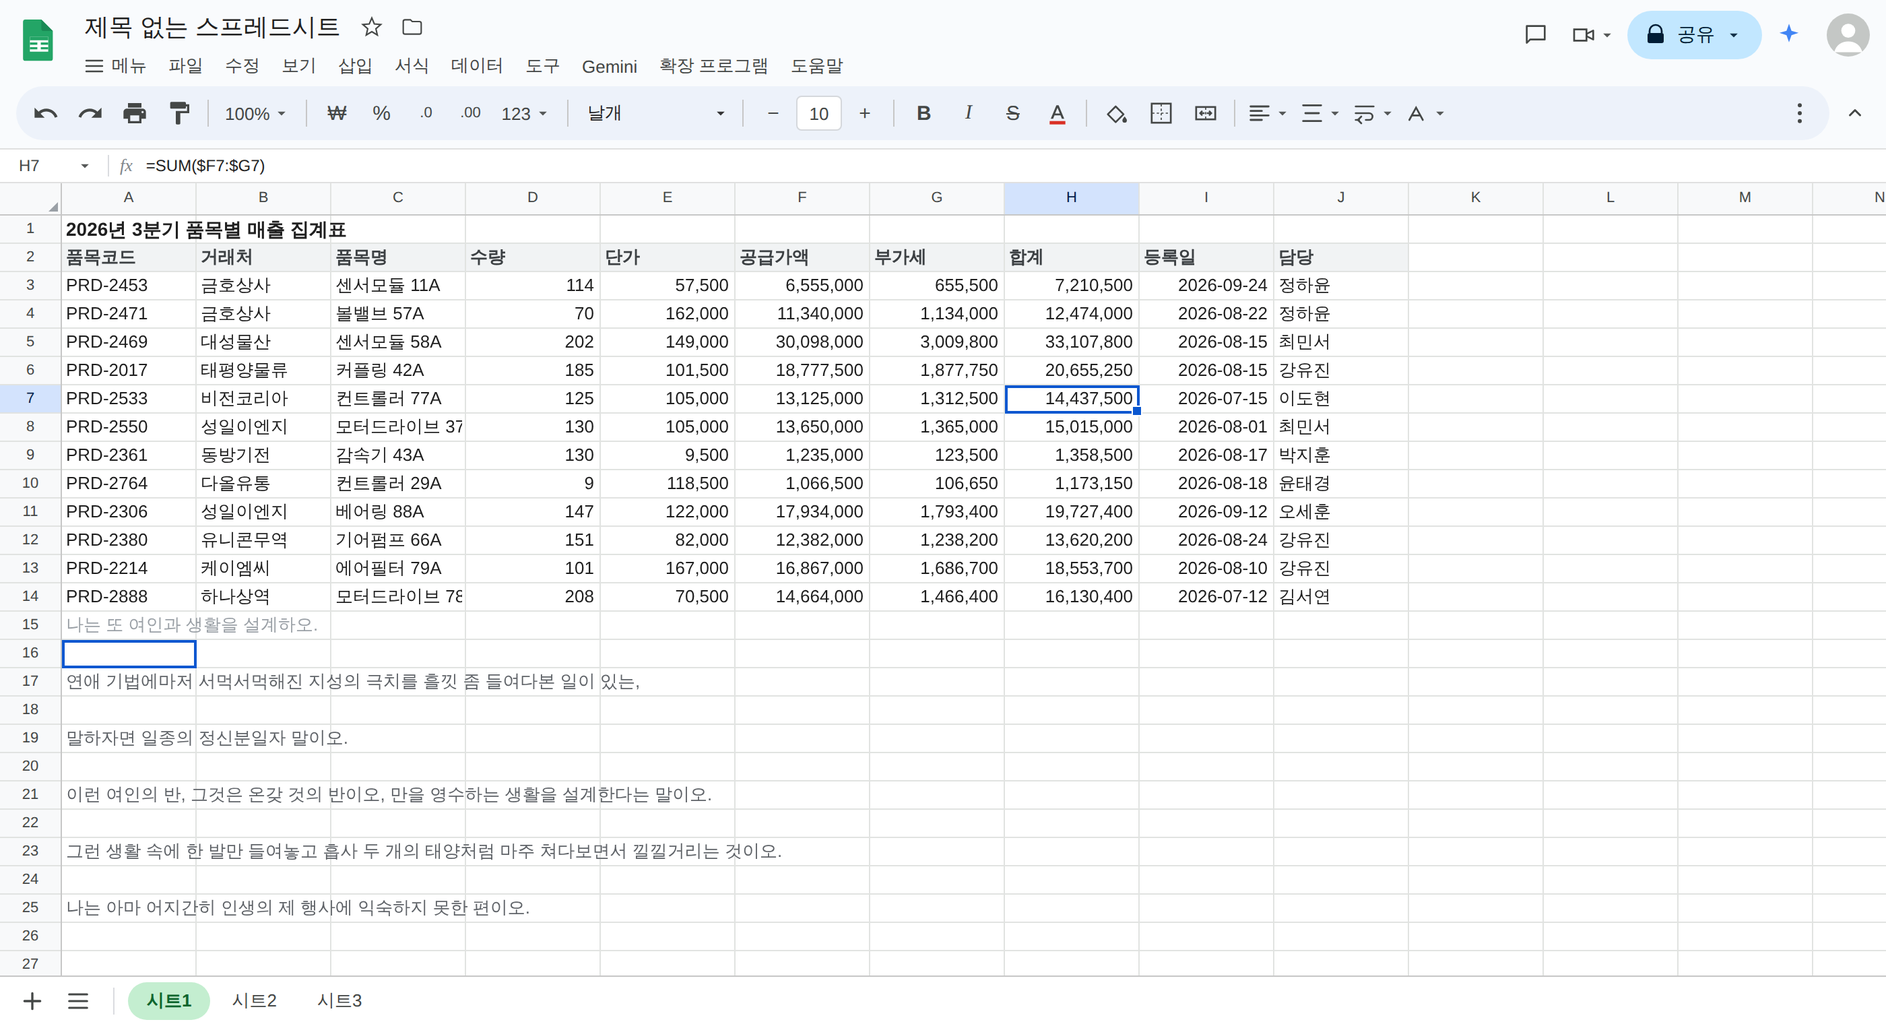
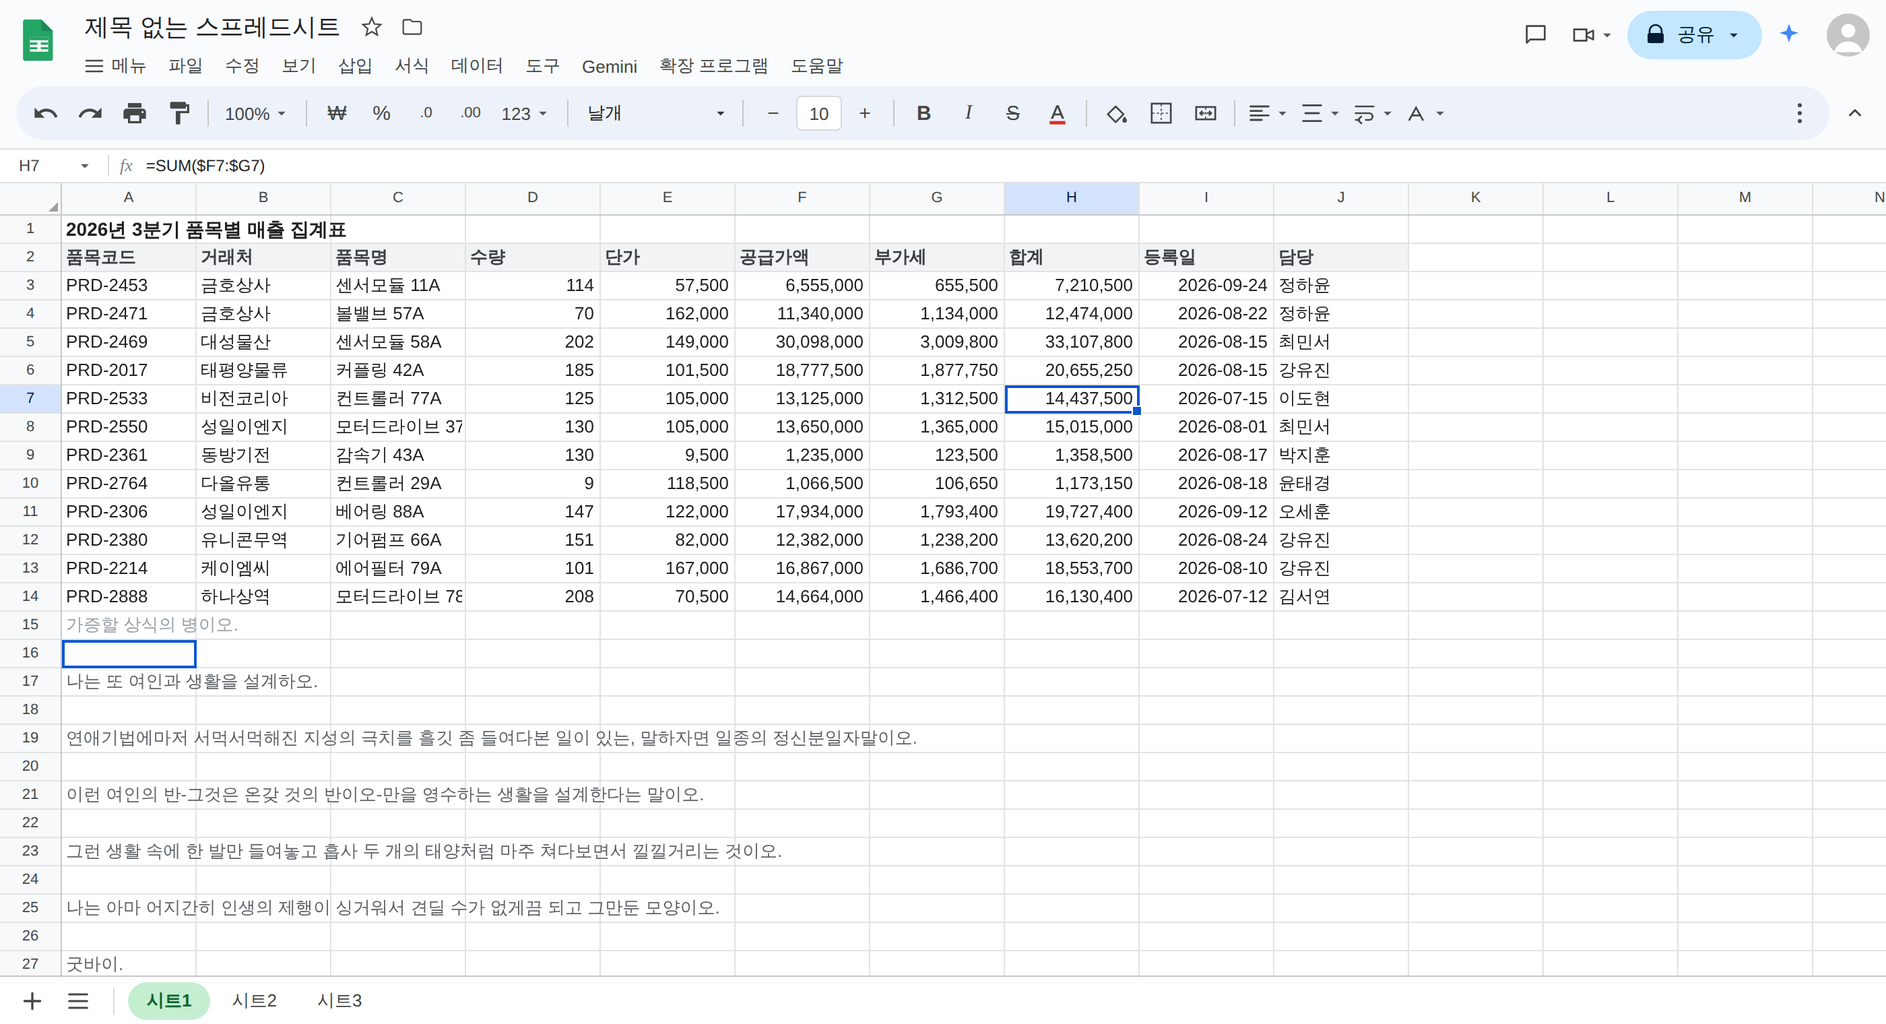
연습 글을 업로드 원문으로 교체
- 글 목록: 날개(이상) → 메밀꽃 필 무렵(이효석) → 별 헤는 밤(윤동주) → 애국가 순서
- 날개·메밀꽃은 도입부 발췌, 별 헤는 밤은 전문, 애국가는 4절 전체
- 한 문장이 한 줄이 되도록 다시 나눔 (문장이 두 줄로 잘리지 않게)
  시는 시행 자체가 한 줄이므로 원문의 행 나눔을 유지
- 본문의 한자를 덜어내 키보드로 칠 수 있는 글자만 남김
  (소학교(小學校) → 소학교, 화중지병(畵中之餠) → 화중지병)
- 따옴표·말줄임표도 키보드로 칠 수 있는 문자로 통일
- 애국가는 국가이므로 작사가 칸을 비우고, 결과창·글 목록에서도
  저자가 없으면 구분점을 붙이지 않도록 처리
- 문장이 길어 화면을 넘어가면 치는 위치를 따라 가로로 스크롤

Claude-Session: https://claude.ai/code/session_01PBS7upHdzMGazshUNhYMyz

diff --git a/js/texts.js b/js/texts.js
@@ -1,8 +1,9 @@
 /* ============================================================
    긴 글 목록
    - 제목 / 저자는 화면에만 표시하고 타자 대상에 넣지 않는다.
-   - lines 배열의 한 줄이 시트의 한 행(셀 하나)이 된다.
-   - 모두 저작권 보호기간이 끝난 작품.
+   - lines 배열의 한 줄이 시트의 한 행(셀 하나)이 되며, 한 문장이 한 줄이다.
+   - 한자는 타자로 치기 어려우므로 본문에서 덜어냈다.
+   - 따옴표와 말줄임표는 키보드로 바로 칠 수 있는 문자로 적었다.
    ============================================================ */
 var TEXTS = [
   {
@@ -10,55 +11,38 @@ var TEXTS = [
     title: '날개',
     author: '이상',
     lines: [
-      "'박제가 되어 버린 천재'를 아시오? 나는 유쾌하오.",
-      '이런 때 연애까지가 유쾌하오.',
-      '육신이 흐느적흐느적하도록 피로했을 때만 정신이 은화처럼 맑소.',
-      '니코틴이 내 횟배 앓는 뱃속으로 스미면 머릿속에 으레 백지가 준비되는 법이오.',
-      '그 위에다 나는 위트와 패러독스를 바둑 포석처럼 늘어놓소.',
-      '가공할 상식의 병이오.',
-      '나는 또 여인과 생활을 설계하오.',
-      '연애 기법에마저 서먹서먹해진 지성의 극치를 흘낏 좀 들여다본 일이 있는,',
-      '말하자면 일종의 정신분일자 말이오.',
-      '이런 여인의 반, 그것은 온갖 것의 반이오, 만을 영수하는 생활을 설계한다는 말이오.',
-      '그런 생활 속에 한 발만 들여놓고 흡사 두 개의 태양처럼 마주 쳐다보면서 낄낄거리는 것이오.',
-      '나는 아마 어지간히 인생의 제 행사에 익숙하지 못한 편이오.'
-    ]
-  },
-  {
-    id: 'unsu',
-    title: '운수 좋은 날',
-    author: '현진건',
-    lines: [
-      '새침하게 흐린 품이 눈이 올 듯하더니 눈은 아니 오고 얼다가 만 비가 추적추적 내리었다.',
-      '이 날이야말로 동소문 안에서 인력거꾼 노릇을 하는 김 첨지에게는',
-      '오래간만에도 닥친 운수 좋은 날이었다.',
-      '문안에 들어간답시는 앞집 마나님을 전찻길까지 모셔다 드린 것을 비롯으로',
-      '행여나 손님이 있을까 하고 정류장에서 어정어정하며',
-      '내리는 사람 하나하나에게 거의 비는 듯한 눈길을 보내고 있다가',
-      '마침내 교원인 듯한 양복쟁이를 동광학교까지 태워다 주기로 되었다.',
-      '첫 번에 삼십 전, 둘째 번에 오십 전.',
-      '아침 댓바람에 그리 흉치 않은 일이었다.',
-      '그야말로 재수가 옴 붙어서 근 열흘 동안 돈 구경도 못 한 김 첨지는',
-      '십 전짜리 백동화 서 푼, 또는 다섯 푼이 찰깍하고 손바닥에 떨어질 때',
-      '거의 눈물을 흘릴 만큼 기뻤었다.'
-    ]
-  },
-  {
-    id: 'bombom',
-    title: '봄봄',
-    author: '김유정',
-    lines: [
-      '"장인님! 인제 저........."',
-      '내가 이렇게 뒤통수를 긁고, 나이가 찼으니 성례를 시켜 줘야 하지 않겠느냐고 하면',
-      '그 대답이 늘 "이 자식아! 성례구 뭐구 미처 자라야지!" 하고 만다.',
-      '이렇게 딱 잡아떼는 데는 더 할 말이 없다.',
-      '허지만 안 낼 수도 없는 것이, 밤낮 일만 해 주고 새경도 못 받는 신세다.',
-      '내가 여기서 이렇게 굴러먹는 것도 오로지 점순이 때문이다.',
-      '점순이가 자라는 대로 성례를 시켜 준다고 데릴사위로 들어온 지가',
-      '벌써 삼 년하고 일곱 달이 되었다.',
-      '그런데도 점순이는 여태 자라지를 않는다.',
-      '아무리 잡아당겨도 늘지 않는 것이 사람의 키인가 보다.',
-      '이래서야 어느 하가에 데릴사위가 장가를 들 수 있단 말인가.'
+      "'박제가 되어 버린 천재'를 아시오?",
+      "나는 유쾌하오.",
+      "이런 때 연애까지가 유쾌하오.",
+      "육신이 흐느적흐느적하도록 피로했을 때만 정신이 은화처럼 맑소.",
+      "니코틴이 내 횟배 앓는 뱃속으로 스미면 머릿속에 으레 백지가 준비되는 법이오.",
+      "그 위에다 나는 위트와 파라독스를 바둑 포석처럼 늘어놓소.",
+      "가증할 상식의 병이오.",
+      "나는 또 여인과 생활을 설계하오.",
+      "연애기법에마저 서먹서먹해진 지성의 극치를 흘깃 좀 들여다본 일이 있는, 말하자면 일종의 정신분일자말이오.",
+      "이런 여인의 반-그것은 온갖 것의 반이오-만을 영수하는 생활을 설계한다는 말이오.",
+      "그런 생활 속에 한 발만 들여놓고 흡사 두 개의 태양처럼 마주 쳐다보면서 낄낄거리는 것이오.",
+      "나는 아마 어지간히 인생의 제행이 싱거워서 견딜 수가 없게끔 되고 그만둔 모양이오.",
+      "굿바이.",
+      "굿바이.",
+      "그대는 이따금 그대가 제일 싫어하는 음식을 탐식하는 아이로니를 실천해 보는 것도 좋을 것 같소.",
+      "위트와 파라독스와......",
+      "그대 자신을 위조하는 것도 할 만한 일이오.",
+      "그대의 작품은 한번도 본 일이 없는 기성품에 의하여 차라리 경편하고 고매하리다.",
+      "19세기는 될 수 있거든 봉쇄하여 버리오.",
+      "도스토예프스키 정신이란 자칫하면 낭비일 것 같소.",
+      "위고를 불란서의 빵 한 조각이라고는 누가 그랬는지 지언인 듯싶소.",
+      "그러나 인생 혹은 그 모형에 있어서 '디테일' 때문에 속는다거나 해서야 되겠소?",
+      "화를 보지 마오.",
+      "부디 그대께 고하는 것이니......",
+      "'테이프가 끊어지면 피가 나오. 상채기도 머지 않아 완치될 줄 믿소. 굿바이.'",
+      "감정은 어떤 '포우즈'.",
+      "(그 '포우즈'의 원소만을 지적하는 것이 아닌지 나도 모르겠소.)",
+      "그 '포우즈'가 부동자세에까지 고도화할 때 감정은 딱 공급을 정지합네다.",
+      "나는 내 비범한 발육을 회고하여 세상을 보는 안목을 규정하였소.",
+      "여왕봉과 미망인-세상의 하고 많은 여인이 본질적으로 이미 미망인이 아닌 이가 있으리까?",
+      "아니, 여인의 전부가 그 일상에 있어서 개개미망인이라는 내 논리가 뜻밖에도 여성에 대한 모험이 되오?",
+      "굿바이."
     ]
   },
   {
@@ -66,35 +50,94 @@ var TEXTS = [
     title: '메밀꽃 필 무렵',
     author: '이효석',
     lines: [
-      '여름 장이란 애시당초에 글러서, 해는 아직 중천에 있건만 장판은 벌써 쓸쓸하고',
-      '더운 햇발이 벌여 놓은 전 휘장 밑으로 등줄기를 훅훅 볶는다.',
-      '마을 사람들은 거지반 돌아간 뒤요,',
-      '팔리지 못한 나뭇군패가 길거리에 궁싯거리고들 있으나',
-      '석유병이나 받고 고깃마리나 사면 족할 이 축들을 바라고',
-      '언제까지든지 버티고 있을 법은 없다.',
-      '허 생원은 조 선달에게 낯을 붉히며 말을 건넸다.',
-      '"그만 걷을까?"',
-      '"잘 생각했네. 봉평 장에서 한 번이나 흐뭇하게 사 본 일 있었을까."',
-      '드팀전 장돌뱅이는 조금 팔았다고 자랑을 하며 궁싯거렸다.',
-      '이지러는 졌으나 보름을 갓 지난 달은 부드러운 빛을 흐뭇이 흘리고 있다.'
+      "여름 장이란 애당초에 글러서, 해는 아직 중천에 있건만 장판은 벌써 쓸쓸하고 더운 햇발이 벌여 놓은 전 휘장 밑으로 등줄기를 훅훅 볶는다.",
+      "마을 사람들은 거지반 돌아간 뒤요, 팔리지 못한 나무꾼 패가 길거리에 궁싯거리고들 있으나, 석유병이나 받고 고깃마리나 사면 족할 이 축들을 바라고 언제까지든지 버티고 있을 법은 없다.",
+      "춥춥스럽게 날아드는 파리 떼도 장난꾼 각다귀들도 귀찮다.",
+      "얼금뱅이요 왼손잡이인 드팀전의 허 생원은 기어코 동업의 조 선달을 나꾸어 보았다.",
+      "\"그만 거둘까?\"",
+      "\"잘 생각했네. 봉평장에서 한 번이나 흐붓하게 사 본 일 있었을까. 내일 대화장에서나 한몫 벌어야겠네.\"",
+      "\"오늘 밤은 밤을 새서 걸어야 될걸?\"",
+      "\"달이 뜨렷다?\"",
+      "절렁절렁 소리를 내며 조 선달이 그 날 산 돈을 따지는 것을 보고 허 생원은 말뚝에서 넓은 휘장을 걷고 벌여 놓았던 물건을 거두기 시작하였다.",
+      "무명 필과 주단바리가 두 고리짝에 꽉 찼다.",
+      "멍석 위에는 천 조각이 어수선하게 남았다.",
+      "다른 축들도 벌써 거진 전들을 걷고 있었다.",
+      "약빠르게 떠나는 패도 있었다.",
+      "어물 장수도, 땜장이도, 엿 장수도, 생강 장수도 꼴들이 보이지 않았다.",
+      "내일은 진부와 대화에 장이 선다.",
+      "축들은 그 어느 쪽으로든지 밤을 새워 육칠십 리 밤길을 타박거리지 않으면 안 된다.",
+      "장판은 잔치 뒤 마당같이 어수선하게 벌어지고, 술집에서는 싸움이 터져 있었다.",
+      "주정꾼 욕지거리에 섞여 계집의 앙칼진 목소리가 찢어졌다.",
+      "장날 저녁은 정해 놓고 계집의 고함소리로 시작되는 것이다.",
+      "\"생원, 시침을 떼두 다 아네...... 충줏집 말이야.\"",
+      "계집 목소리로 문득 생각난 듯이 조 선달은 비죽이 웃는다.",
+      "\"화중지병이지 연소패들을 적수로 하구야 대거리가 돼야 말이지.\"",
+      "\"그렇지두 않을걸. 축들이 사족을 못 쓰는 것두 사실은 사실이나, 아무리 그렇다군 해두 왜 그 동이 말일세. 감쪽같이 충줏집을 후린 눈치거든.\"",
+      "\"무어 그 애송이가? 물건 가지고 낚었나 부지. 착실한 녀석인 줄 알았더니.\"",
+      "\"그 길만은 알 수 있나...... 궁리 말구 가 보세나그려. 내 한턱 씀세.\"",
+      "그다지 마음이 당기지 않는 것을 쫓아갔다.",
+      "허 생원은 계집과는 연분이 멀었다.",
+      "얼금뱅이 상판을 쳐들고 대어 설 숫기도 없었으나, 계집 편에서 정을 보낸 적도 없었고, 쓸쓸하고 뒤틀린 반생이었다.",
+      "충줏집을 생각만 하여도 철없이 얼굴이 붉어지고 발밑이 떨리고 그 자리에 소스라쳐 버린다."
     ]
   },
   {
+    /* 시는 시행 자체가 한 줄이므로 원문의 행 나눔을 그대로 둔다. */
     id: 'byeol',
     title: '별 헤는 밤',
     author: '윤동주',
     lines: [
-      '계절이 지나가는 하늘에는 가을로 가득 차 있습니다.',
-      '나는 아무 걱정도 없이 가을 속의 별들을 다 헤일 듯합니다.',
-      '가슴속에 하나 둘 새겨지는 별을 이제 다 못 헤는 것은',
-      '쉬이 아침이 오는 까닭이요, 내일 밤이 남은 까닭이요,',
-      '아직 나의 청춘이 다하지 않은 까닭입니다.',
-      '별 하나에 추억과 별 하나에 사랑과',
-      '별 하나에 쓸쓸함과 별 하나에 동경과',
-      '별 하나에 시와 별 하나에 어머니, 어머니',
-      '어머님, 나는 별 하나에 아름다운 말 한마디씩 불러 봅니다.',
-      '이네들은 너무나 멀리 있습니다.',
-      '별이 아슬히 멀듯이.'
+      "계절이 지나가는 하늘에는",
+      "가을로 가득차 있습니다.",
+      "나는 아무 걱정도 없이",
+      "가을 속의 별들을 다 헤일 듯합니다.",
+      "가슴 속에 하나 둘 새겨지는 별을",
+      "이제 다 못 헤는 것은",
+      "쉬이 아침이 오는 까닭이요,",
+      "내일 밤이 남은 까닭이요,",
+      "아직 나의 청춘이 다하지 않은 까닭입니다.",
+      "별 하나에 추억과",
+      "별 하나에 사랑과",
+      "별 하나에 쓸쓸함과",
+      "별 하나에 동경과",
+      "별 하나에 시와",
+      "별 하나에 어머니, 어머니.",
+      "어머님, 나는 별 하나에 아름다운 말 한마디씩 불러 봅니다.",
+      "소학교 때 책상을 같이 했던 아이들의 이름과 패, 경, 옥 이런 이국 소녀들의 이름과, 벌써 애기 어머니 된 계집애들의 이름과, 가난한 이웃사람들의 이름과, 비둘기 강아지, 토끼, 노새, 노루, 프란시스 잼, 라이너 마리아 릴케, 이런 시인들의 이름을 불러 봅니다.",
+      "이네들은 너무나 멀리 있습니다.",
+      "별이 아스라이 멀 듯이",
+      "어머님,",
+      "그리고 당신은 멀리 북간도에 계십니다.",
+      "나는 무엇인지 그리워",
+      "이 많은 별빛이 내린 언덕 위에",
+      "내 이름자를 써 보고",
+      "흙으로 덮어 버리었습니다.",
+      "따는 밤을 새워 우는 벌레는",
+      "부끄러운 이름을 슬퍼하는 까닭입니다.",
+      "그러나 겨울이 지나고 나의 별에도 봄이 오면",
+      "무덤 위에 파란 잔디가 피어나듯이",
+      "내 이름자 묻힌 언덕 위에도",
+      "자랑처럼 풀이 무성할 거외다."
+    ]
+  },
+  {
+    /* 국가이므로 작사가는 비워 둔다. */
+    id: 'aegukga',
+    title: '애국가',
+    author: '',
+    lines: [
+      "동해물과 백두산이 마르고 닳도록",
+      "하느님이 보우하사 우리나라 만세",
+      "무궁화 삼천리 화려강산 대한 사람 대한으로 길이 보전하세",
+      "남산 위에 저 소나무 철갑을 두른 듯",
+      "바람 서리 불변함은 우리 기상일세",
+      "무궁화 삼천리 화려강산 대한 사람 대한으로 길이 보전하세",
+      "가을 하늘 공활한데 높고 구름 없이",
+      "밝은 달은 우리 가슴 일편단심일세",
+      "무궁화 삼천리 화려강산 대한 사람 대한으로 길이 보전하세",
+      "이 기상과 이 맘으로 충성을 다하여",
+      "괴로우나 즐거우나 나라 사랑하세",
+      "무궁화 삼천리 화려강산 대한 사람 대한으로 길이 보전하세"
     ]
   }
 ];

diff --git a/js/typing.js b/js/typing.js
@@ -140,6 +140,7 @@ var Typing = (function () {
 
     sheet.select(ir, 0);
     sheet.revealRow(targetRow(i), 4);
+    sheet.scroll.scrollLeft = 0;
     focusInput();
 
     S.lineStartT = (S.mode === 'attack') ? playTime() : null;
@@ -200,6 +201,14 @@ var Typing = (function () {
       var c2 = bad ? 'ch-c bad' : 'ch-c';
       if (s.className !== c2) s.className = c2;
     }
+    followCaret();
+  }
+
+  /* 입력 중인 지점이 항상 보이도록 가로 스크롤을 맞춘다. */
+  function followCaret() {
+    var last = S.typedSpans[S.typedSpans.length - 1];
+    var x = last ? last.offsetLeft + last.offsetWidth : 0;
+    sheet.revealX(x);
   }
 
   function onKeyDown(e) {
@@ -520,9 +529,8 @@ var Typing = (function () {
     var head = r.attack
       ? '타임어택 결과 · ' + r.level + '단계'
       : '타자 연습 결과';
-    var desc = r.attack
-      ? (r.reason === 'stopped' ? '중단한 지점까지의 기록입니다.' : (S.text.title + ' · ' + S.text.author))
-      : (S.text.title + ' · ' + S.text.author);
+    var name = S.text.title + (S.text.author ? ' · ' + S.text.author : '');
+    var desc = (r.attack && r.reason === 'stopped') ? '중단한 지점까지의 기록입니다.' : name;
 
     var m = Chrome.buildModal(head, desc);
     var grid = U.el('div', 'result');

diff --git a/js/app.js b/js/app.js
@@ -60,7 +60,7 @@ var App = (function () {
     U.save('selected', id);
     U.$('#textPickerLabel').textContent = text ? text.title : '기본값';
     U.$('#textPickerBtn').title = text
-      ? ('연습할 글: ' + text.title + ' · ' + text.author)
+      ? ('연습할 글: ' + text.title + (text.author ? ' · ' + text.author : ''))
       : '연습할 글 선택';
     Typing.setText(text);
   }
@@ -100,7 +100,8 @@ var App = (function () {
     }
 
     TEXTS.forEach(function (t) {
-      dd.appendChild(item(t.id, t.title, t.author + ' · ' + t.lines.length + '줄'));
+      dd.appendChild(item(t.id, t.title,
+        (t.author ? t.author + ' · ' : '') + t.lines.length + '줄'));
     });
 
     dd.appendChild(U.el('div', 'dropdown__sep'));

diff --git a/js/grid.js b/js/grid.js
@@ -219,6 +219,14 @@ Sheet.prototype.select = function (r, c, silent) {
   if (!silent) this.onSelect(r, c, this.getCell(r, c));
 };
 
+/* 긴 문장을 칠 때 커서 위치가 화면 밖으로 나가지 않게 가로로 따라간다. */
+Sheet.prototype.revealX = function (x, pad) {
+  pad = pad == null ? 140 : pad;
+  var sc = this.scroll, view = sc.clientWidth;
+  if (x > sc.scrollLeft + view - pad) sc.scrollLeft = x - view + pad;
+  else if (x < sc.scrollLeft + pad) sc.scrollLeft = Math.max(0, x - pad);
+};
+
 Sheet.prototype.revealRow = function (r, pad) {
   pad = pad == null ? 3 : pad;
   var top = r * ROW_H;

diff --git a/README.md b/README.md
@@ -31,15 +31,16 @@
 글줄과 입력칸이 한 행씩 번갈아 놓입니다. 제목과 저자는 화면에만 표시되고 타자 대상이 아닙니다.
 
 ```
-1행   날개                      ← 제목 (연습 대상 아님)
-2행   이상                      ← 저자 (연습 대상 아님)
-3행   '박제가 되어 버린 천재'를 아시오? …   ← 글줄
-4행   [           입력칸           ]
-5행   육신이 흐느적흐느적하도록 …            ← 글줄
-6행   [           입력칸           ]
+1행   날개                          ← 제목 (연습 대상 아님)
+2행   이상                          ← 저자 (연습 대상 아님)
+3행   '박제가 되어 버린 천재'를 아시오?   ← 글줄 (한 문장)
+4행   [             입력칸             ]
+5행   나는 유쾌하오.                   ← 글줄 (한 문장)
+6행   [             입력칸             ]
 ```
 
 - 글자를 칠 때마다 글줄의 글자 색이 바뀝니다. (맞으면 검정, 틀리면 빨강)
+- 문장이 길어 화면을 넘어가면 치는 위치를 따라 가로로 움직입니다.
 - `Enter` : 다음 줄의 입력칸으로 이동
 - `Space` : **줄을 끝까지 입력한 상태**라면 스페이스로도 다음 줄로 이동
 - 마지막 줄까지 마치면 결과 창이 열립니다. `Enter` 로 닫습니다.
@@ -82,13 +83,23 @@
 툴바에서 원래 글꼴을 지정하던 자리(`기본값`)가 **글 선택 도구**입니다.
 내장된 글과 시트2에 넣은 커스텀 글 중에서 고를 수 있습니다.
 
-내장된 글 (저작권 보호기간이 끝난 작품)
+내장된 글
 
-- 날개 — 이상
-- 운수 좋은 날 — 현진건
-- 봄봄 — 김유정
-- 메밀꽃 필 무렵 — 이효석
-- 별 헤는 밤 — 윤동주
+| 글 | 저자 | 분량 |
+|----|------|------|
+| 날개 | 이상 | 도입부 32줄 |
+| 메밀꽃 필 무렵 | 이효석 | 도입부 29줄 |
+| 별 헤는 밤 | 윤동주 | 전문 31줄 |
+| 애국가 | — | 12줄 |
+
+글을 넣을 때 지킨 규칙
+
+- **한 문장이 한 줄**입니다. 한 문장이 두 줄로 잘리지 않습니다.
+  다만 시(별 헤는 밤)는 시행 자체가 한 줄이므로 원문의 행 나눔을 그대로 두었습니다.
+- **한자는 본문에서 덜어냈습니다.** 키보드로 바로 칠 수 없기 때문입니다.
+  (`소학교(小學校)` → `소학교`, `화중지병(畵中之餠)` → `화중지병`)
+- 따옴표와 말줄임표도 키보드로 칠 수 있는 문자(`'` `"` `...`)로 적었습니다.
+- 애국가는 국가이므로 작사가 칸을 비워 두었습니다.
 
 ### 내 글 넣기 (시트2)
 
